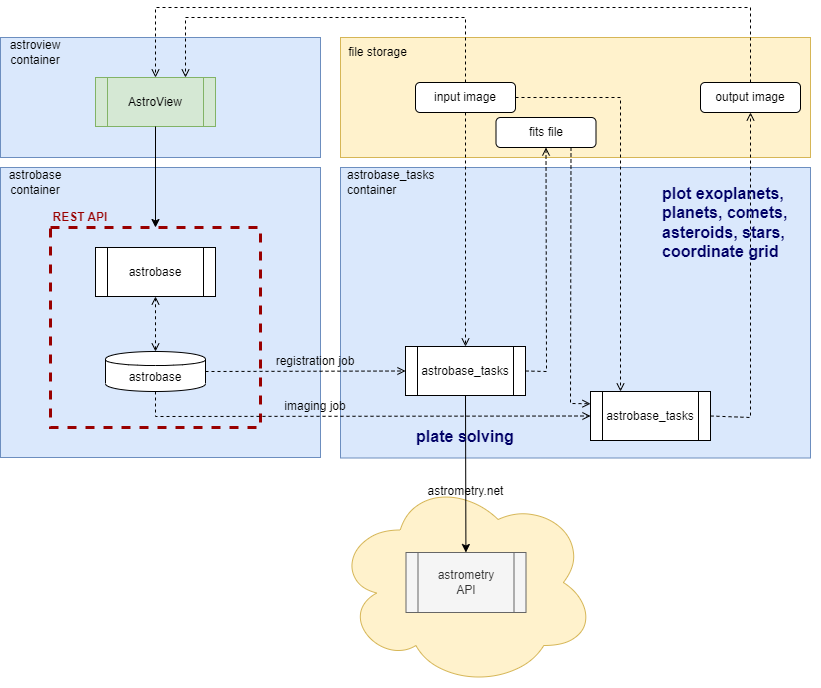
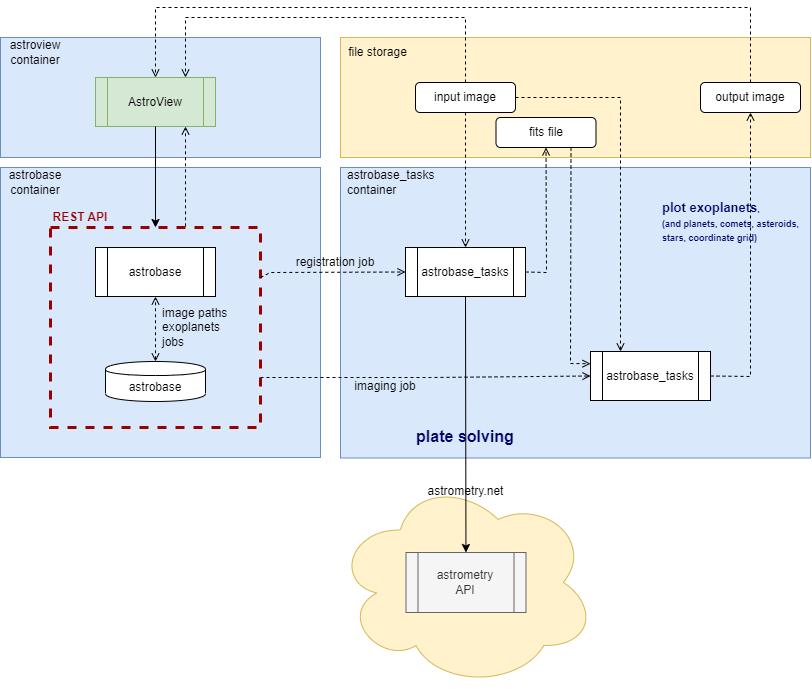
update documentation

diff --git a/README.md b/README.md
@@ -1,7 +1,5 @@
 # astrobase_tasks
 
-![](docs/astrobase-architecture.png)
-
 ### astrobase
 ``astrobase_tasks`` is not a standalone package, but an addition to the ``astrobase`` project.
  ``Astrobase`` is a Django web application that wraps my observation database in a REST API, 
@@ -16,6 +14,8 @@ This repo, ``astrobase_tasks``, is developed and deployed separately from ``astr
 and contains the underlying functionality for the 'jobs' mentioned above.
 It runs various (async) tasks using Celery with RabbitMQ.
 
+![](docs/astrobase-architecture.png)
+
 ## The Technology Stack
   * Python 3.10
   * Celery
@@ -23,7 +23,7 @@ It runs various (async) tasks using Celery with RabbitMQ.
 
 ### Celery with RabbitMQ
 There are 3 types of tasks that can be run simultaneously on 3 different Celery message queues
-* registration jobs: 'plate solve' an image to nova.astronomy.net'and download the results (starchart, fits files)
+* registration jobs: 'plate solve' an image to nova.astronomy.net'and download the results (starchart, annotated image, fits files)
 * imaging job: plot information on an image (grid, stars, transients, exoplanets)
 * image cutout of a list of images
 
@@ -50,12 +50,14 @@ There are 3 types of tasks that can be run simultaneously on 3 different Celery 
 ### registration_controller.py
 The registration pipeline handles the plate solving at astrometry.net
 
-
 ### jobs_controller.py
 Handles incoming jobs from ``astrobase``.
 
 It polls the astrobase `jobs` API at an interval through the ``AstrobaseIO`` interface package.
-The job contains all the information to start the task 
+The job contains all the information to complete the task.
+Including the coordinates, shapes and colors of the objects to be plotten on an image.
+(that information itself comes from the ``astrobase`` backend)
+
 
 ### fits_imaging.py
 This module uses ``astropy`` and ``pillow`` to combine the WCS coordinatesystem in the fits file with plotting functionality on images.
